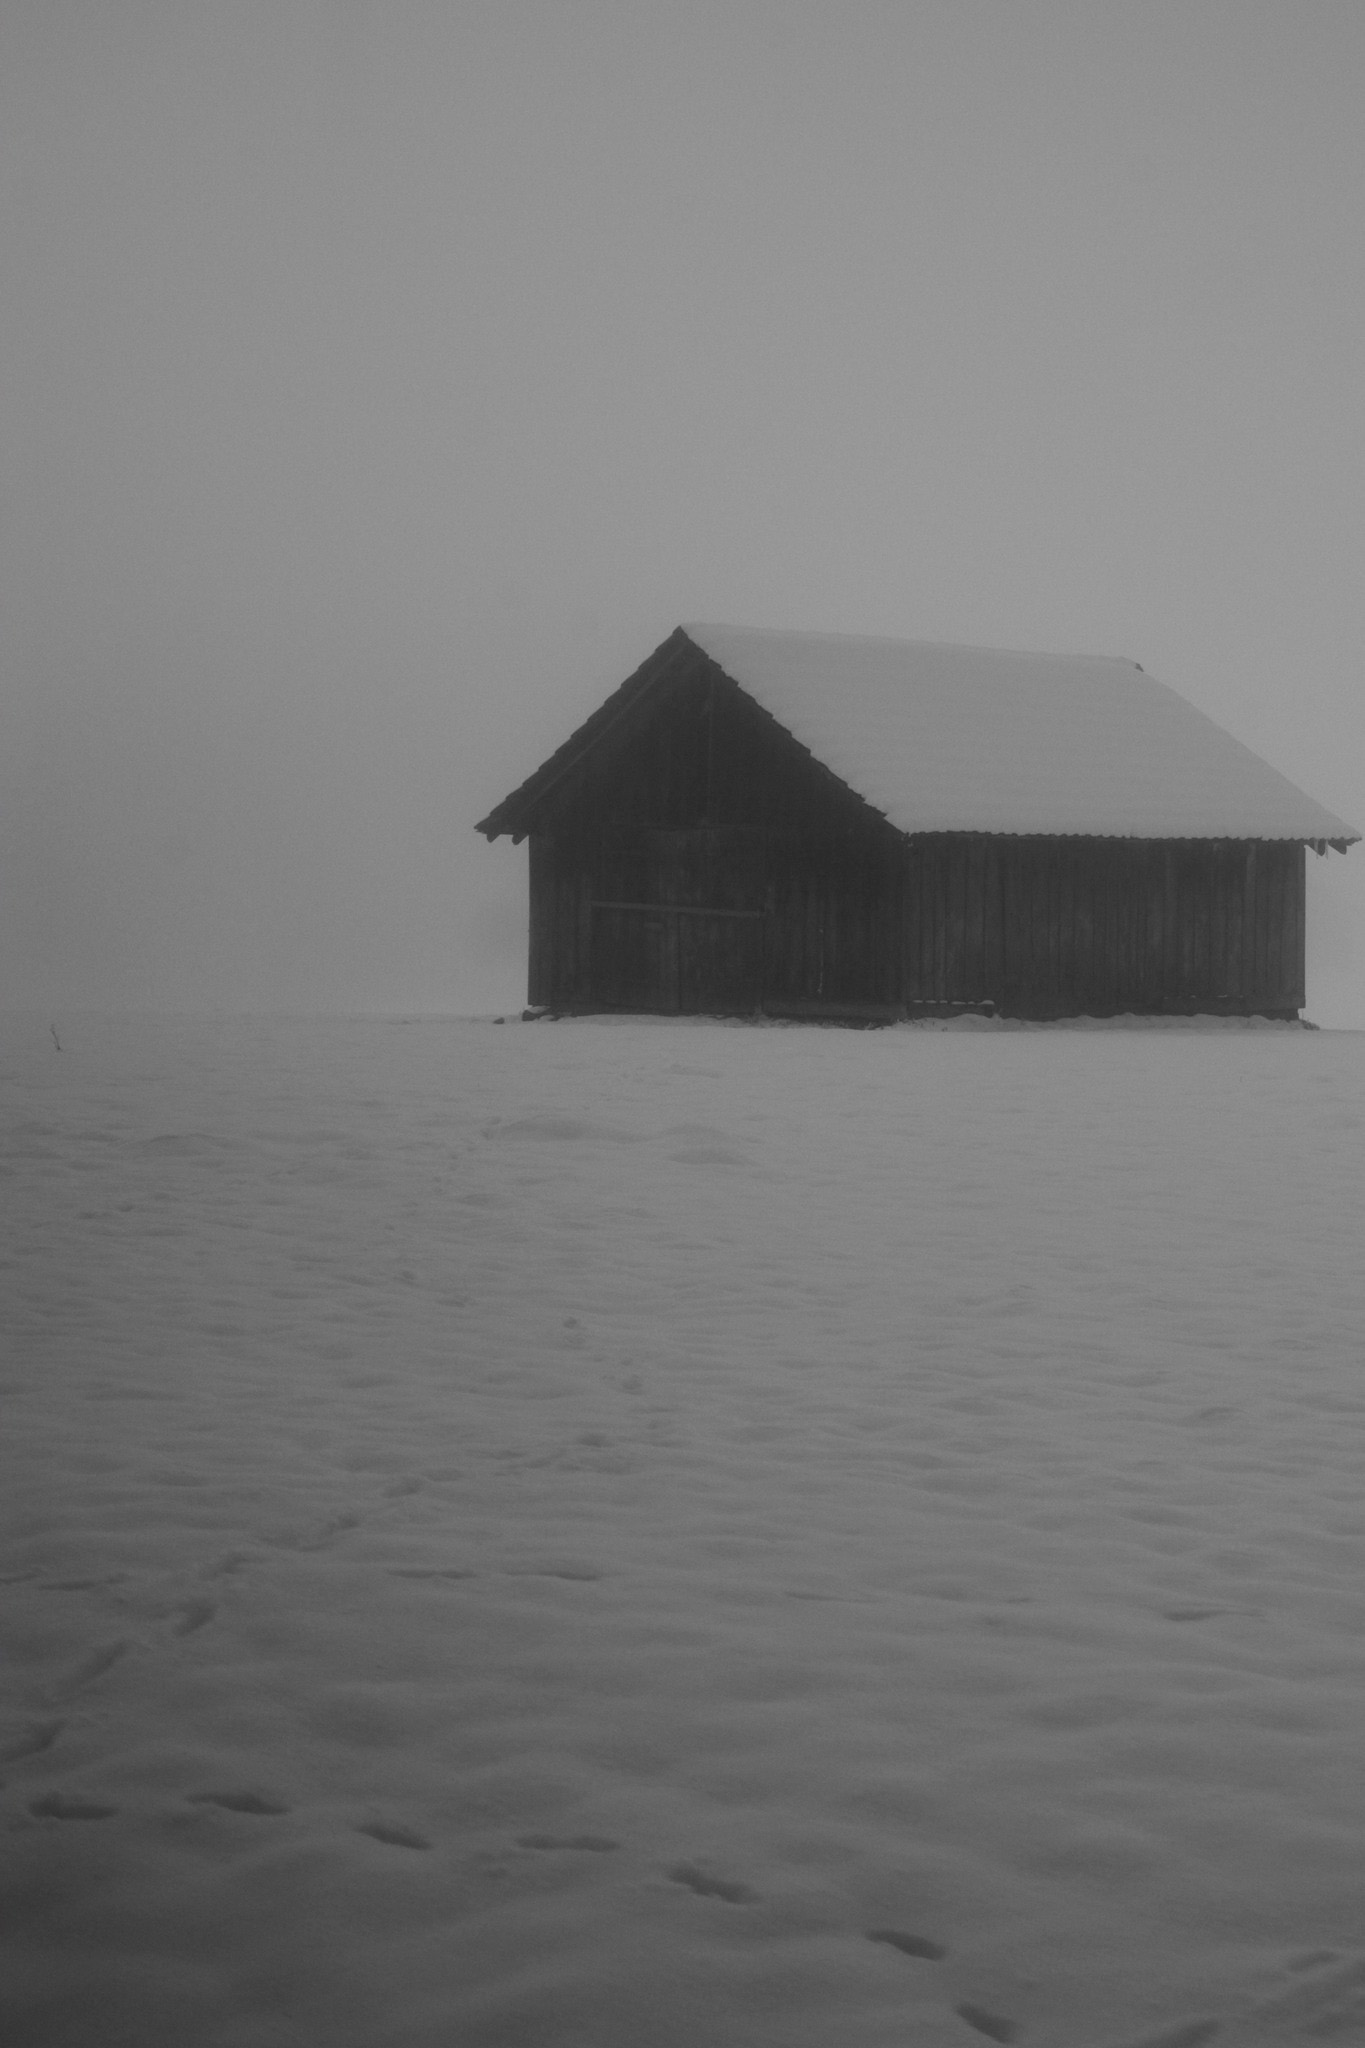
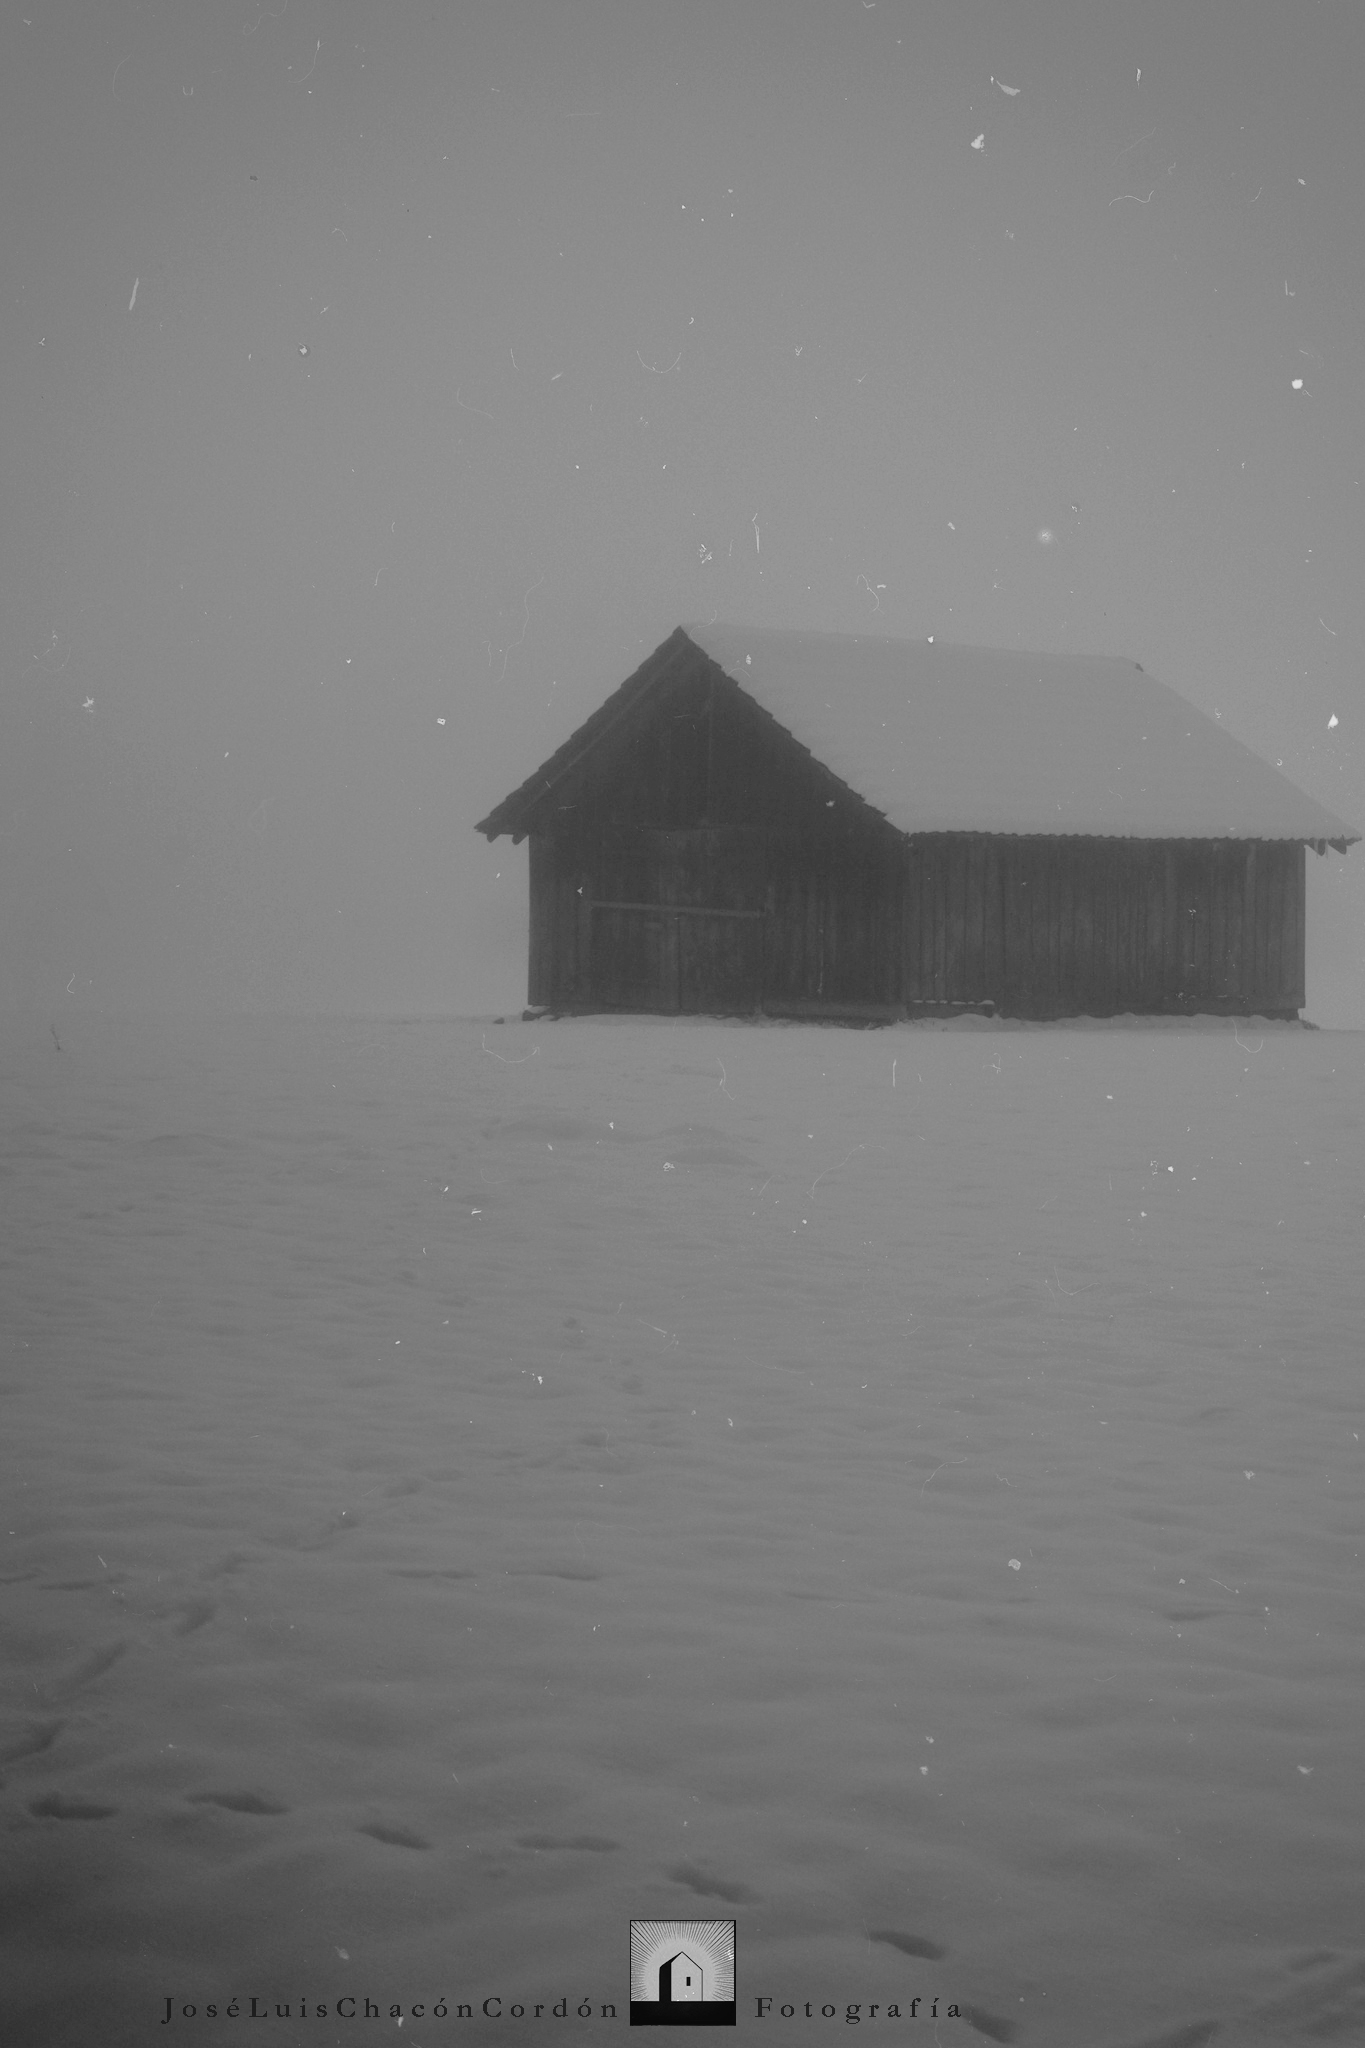
ajustes portada movil

Changed region(s): [[0.4615, 0.9375, 0.5538, 1.0]]

diff --git a/index.html b/index.html
@@ -41,7 +41,7 @@
             <span>CORDÓN</span>
         </h1>
 
-        <p>La Casa de la Luz</p>
+        <p> </p>
 
        <a href="pages/recorrido.html" class="entrar">ENTRAR</a>
     </div>
